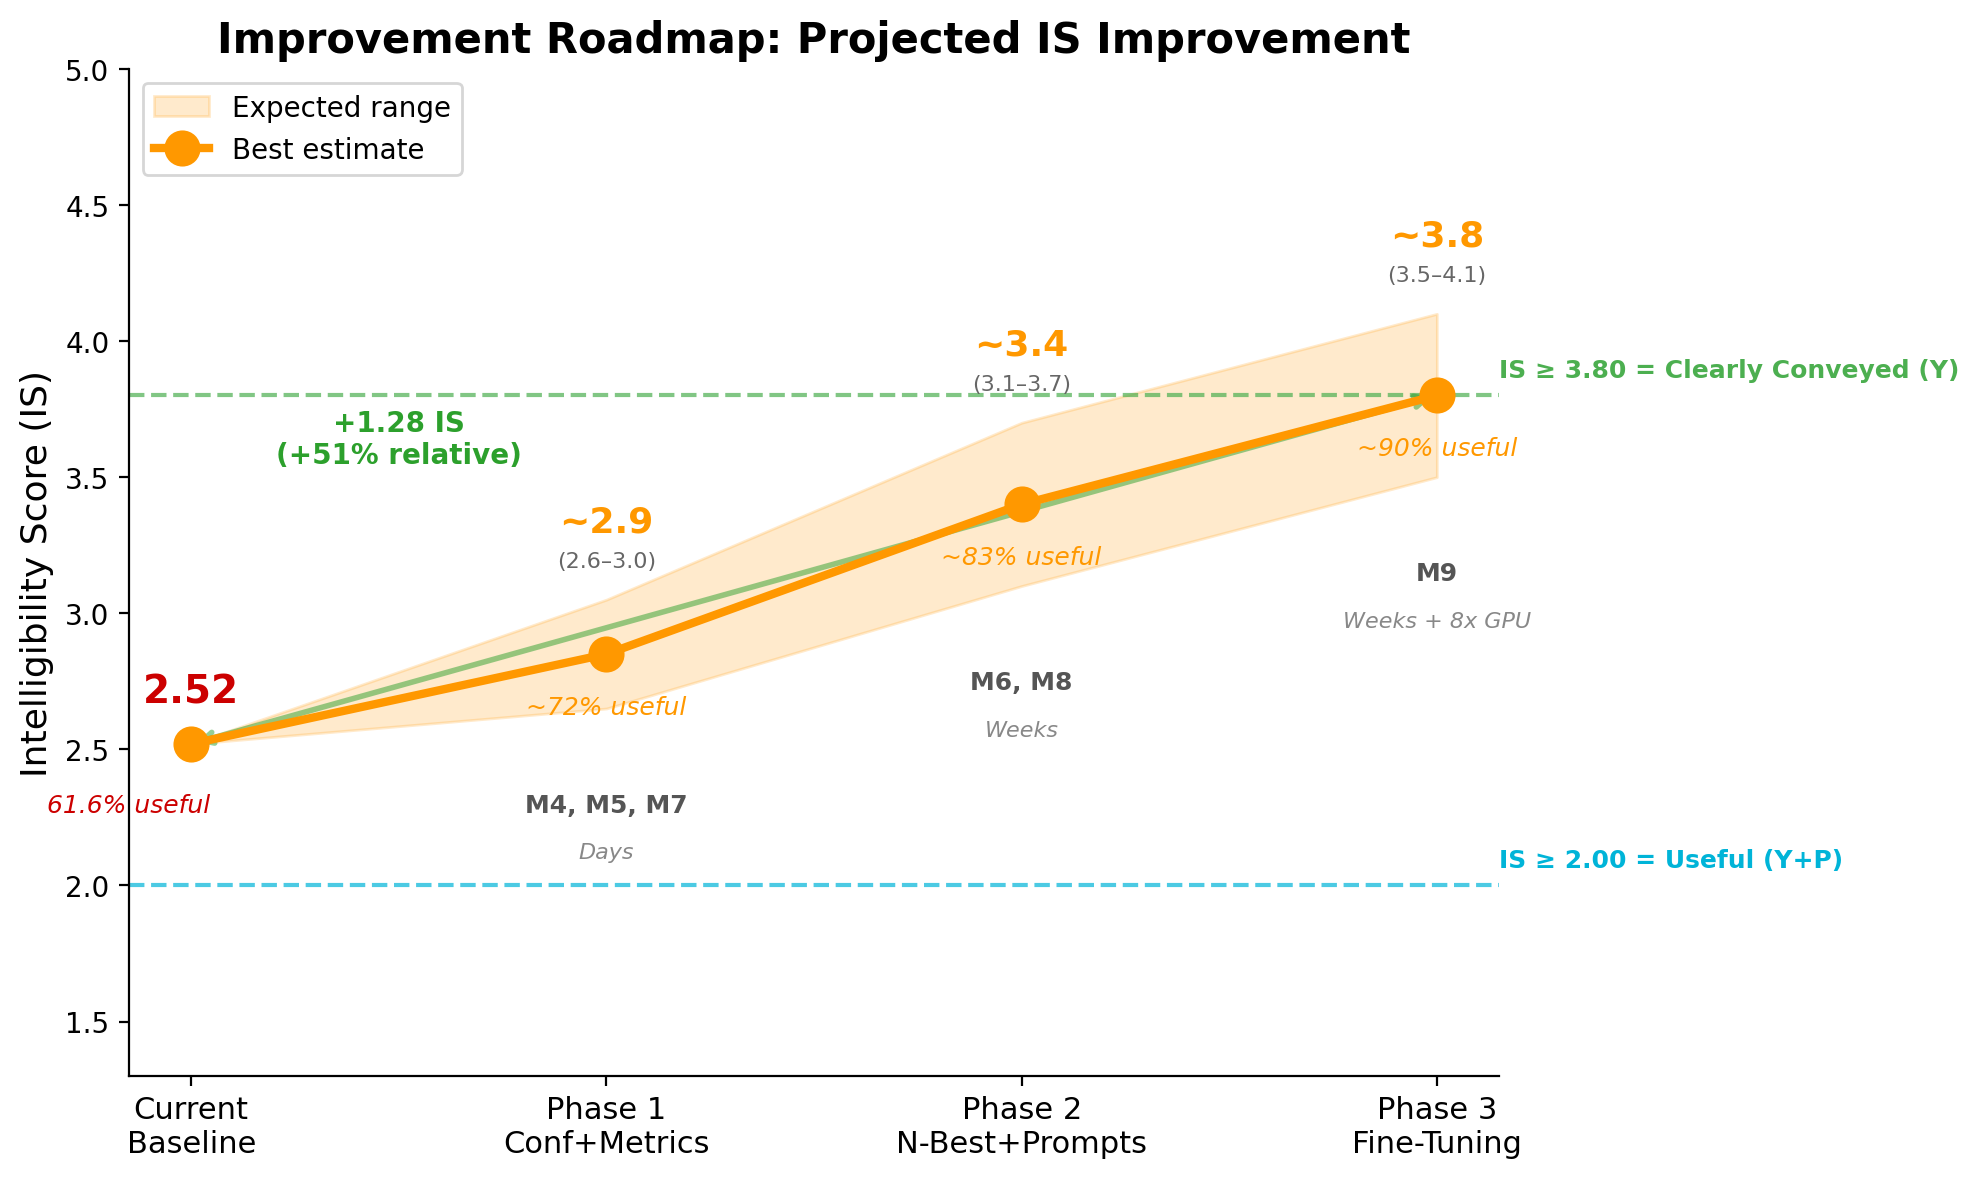
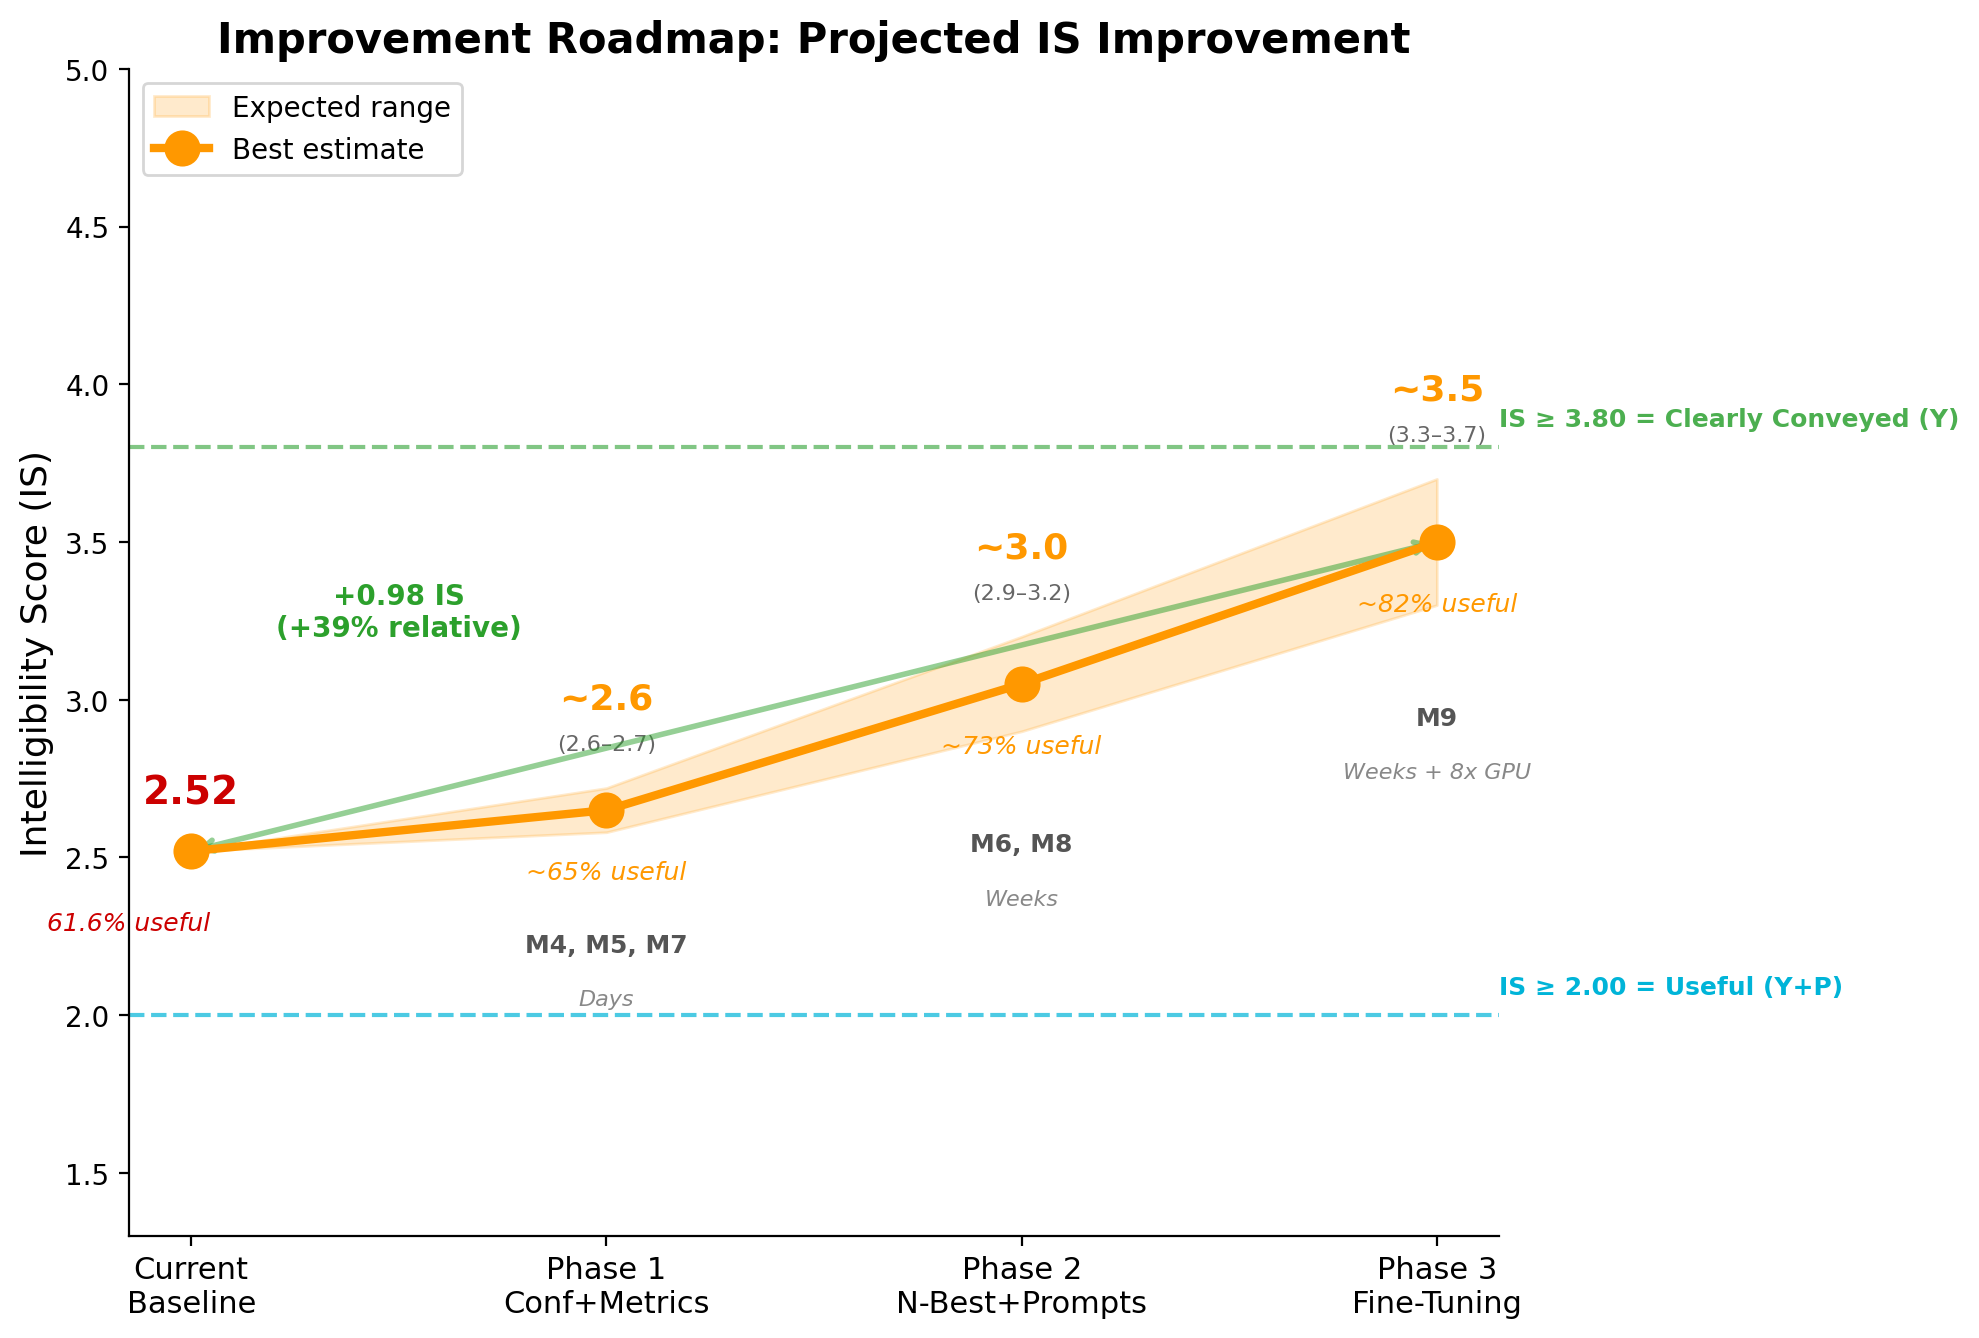
fix: sync plot PNGs to PPTX source directory and rebuild
The plot generator wrote to docs/evaluation/plots/ but the PPTX
generator reads from presentation_materials/01_plots_for_slides/.
Added auto-copy step so regenerated plots always reach both locations.
IS trajectory plot now correctly shows 2.65/3.05/3.50 (was stale at
2.9/3.4/3.8).

diff --git a/docs/_research-tools/generators/generate_presentation_plots.py b/docs/_research-tools/generators/generate_presentation_plots.py
@@ -34,6 +34,8 @@ import matplotlib.pyplot as plt
 import matplotlib.ticker as mticker
 
 OUTPUT_DIR = Path(__file__).resolve().parent.parent.parent / "evaluation" / "plots"
+# Also copy to PPTX source directory so generate_presentation.py picks them up
+PPTX_PLOTS_DIR = Path("/home/ubuntu/presentation_materials_20260224/01_plots_for_slides")
 PLOT_DPI = 200
 FIG_SIZE = (10, 6)
 
@@ -500,5 +502,11 @@ if __name__ == "__main__":
     plot_P4_lenpen_sensitivity()
     plot_P5_tuning_before_after()
     plot_P6_is_radar()
+    # Copy all plots to PPTX source directory
+    if PPTX_PLOTS_DIR.exists():
+        import shutil
+        for png in OUTPUT_DIR.glob("P*.png"):
+            shutil.copy2(png, PPTX_PLOTS_DIR / png.name)
+        print(f"\n  Copied to {PPTX_PLOTS_DIR}")
     print()
     print("Done! All 7 plots saved to", OUTPUT_DIR)